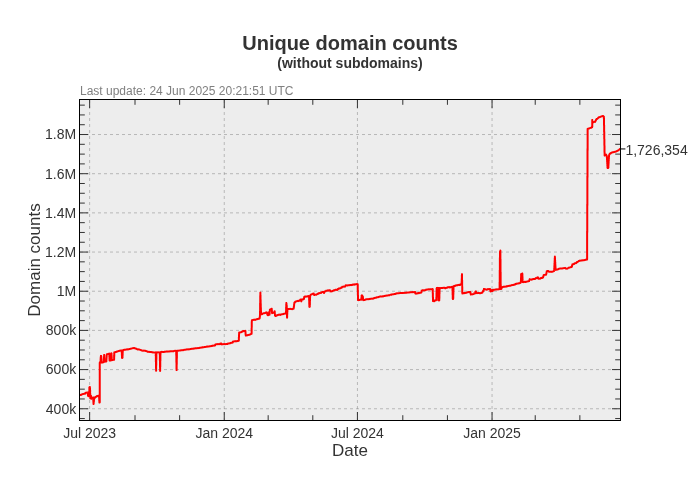
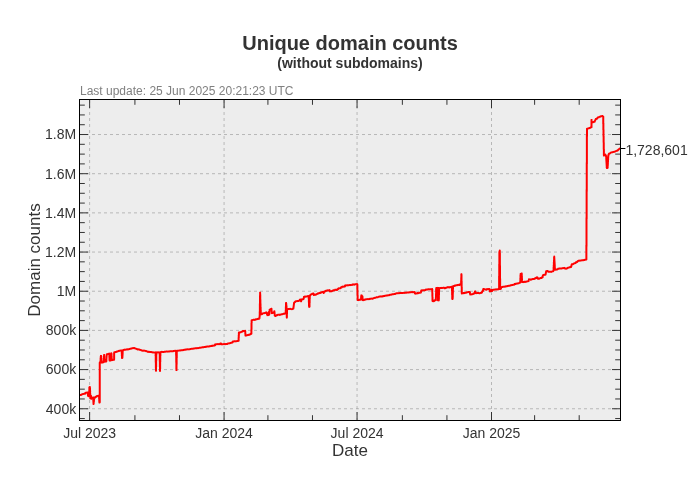
Update pages

diff --git a/README.md b/README.md
@@ -3,23 +3,23 @@ A blocklist file for blocking ads, trackers and malware domains.
 
[1 lines of base64/hex data omitted]
 
-- Unique domains: 2,427,559
-- Without subdomains: 1,726,354
-- Last update: 24 Jun 2025 20:21:51 UTC
-- Version: 2025.06.24.01
+- Unique domains: 2,430,627
+- Without subdomains: 1,728,601
+- Last update: 25 Jun 2025 20:21:23 UTC
+- Version: 2025.06.25.01
 
 
 ### Downloads:
 
 | Format             | Domain count      | Download Link |
 |:------------------ | -----------------:|:-------------:|
-| *Adblock Plus*     | 1,726,354 | [Download](https://dl.cenk.app/bad-hosts/bad-hosts-abp) |
-| *Wildcard domains* | 1,726,354 | [Download](https://dl.cenk.app/bad-hosts/bad-hosts-wildcard) |
-| *dnsmasq*          | 1,726,354 | [Download](https://dl.cenk.app/bad-hosts/bad-hosts-dnsmasq) |
-| *Unbound*          | 1,726,354 | [Download](https://dl.cenk.app/bad-hosts/bad-hosts-unbound) |
-| *hosts*            | 2,427,559 | [Download](https://dl.cenk.app/bad-hosts/hosts) |
-| *hosts (ipv6)*     | 2,427,559 | [Download](https://dl.cenk.app/bad-hosts/hosts-ipv6) |
-| *Plain domains*    | 2,427,559 | [Download](https://dl.cenk.app/bad-hosts/bad-hosts-domains) |
+| *Adblock Plus*     | 1,728,601 | [Download](https://dl.cenk.app/bad-hosts/bad-hosts-abp) |
+| *Wildcard domains* | 1,728,601 | [Download](https://dl.cenk.app/bad-hosts/bad-hosts-wildcard) |
+| *dnsmasq*          | 1,728,601 | [Download](https://dl.cenk.app/bad-hosts/bad-hosts-dnsmasq) |
+| *Unbound*          | 1,728,601 | [Download](https://dl.cenk.app/bad-hosts/bad-hosts-unbound) |
+| *hosts*            | 2,430,627 | [Download](https://dl.cenk.app/bad-hosts/hosts) |
+| *hosts (ipv6)*     | 2,430,627 | [Download](https://dl.cenk.app/bad-hosts/hosts-ipv6) |
+| *Plain domains*    | 2,430,627 | [Download](https://dl.cenk.app/bad-hosts/bad-hosts-domains) |
 
 ### Domain count history
 #### With subdomains
